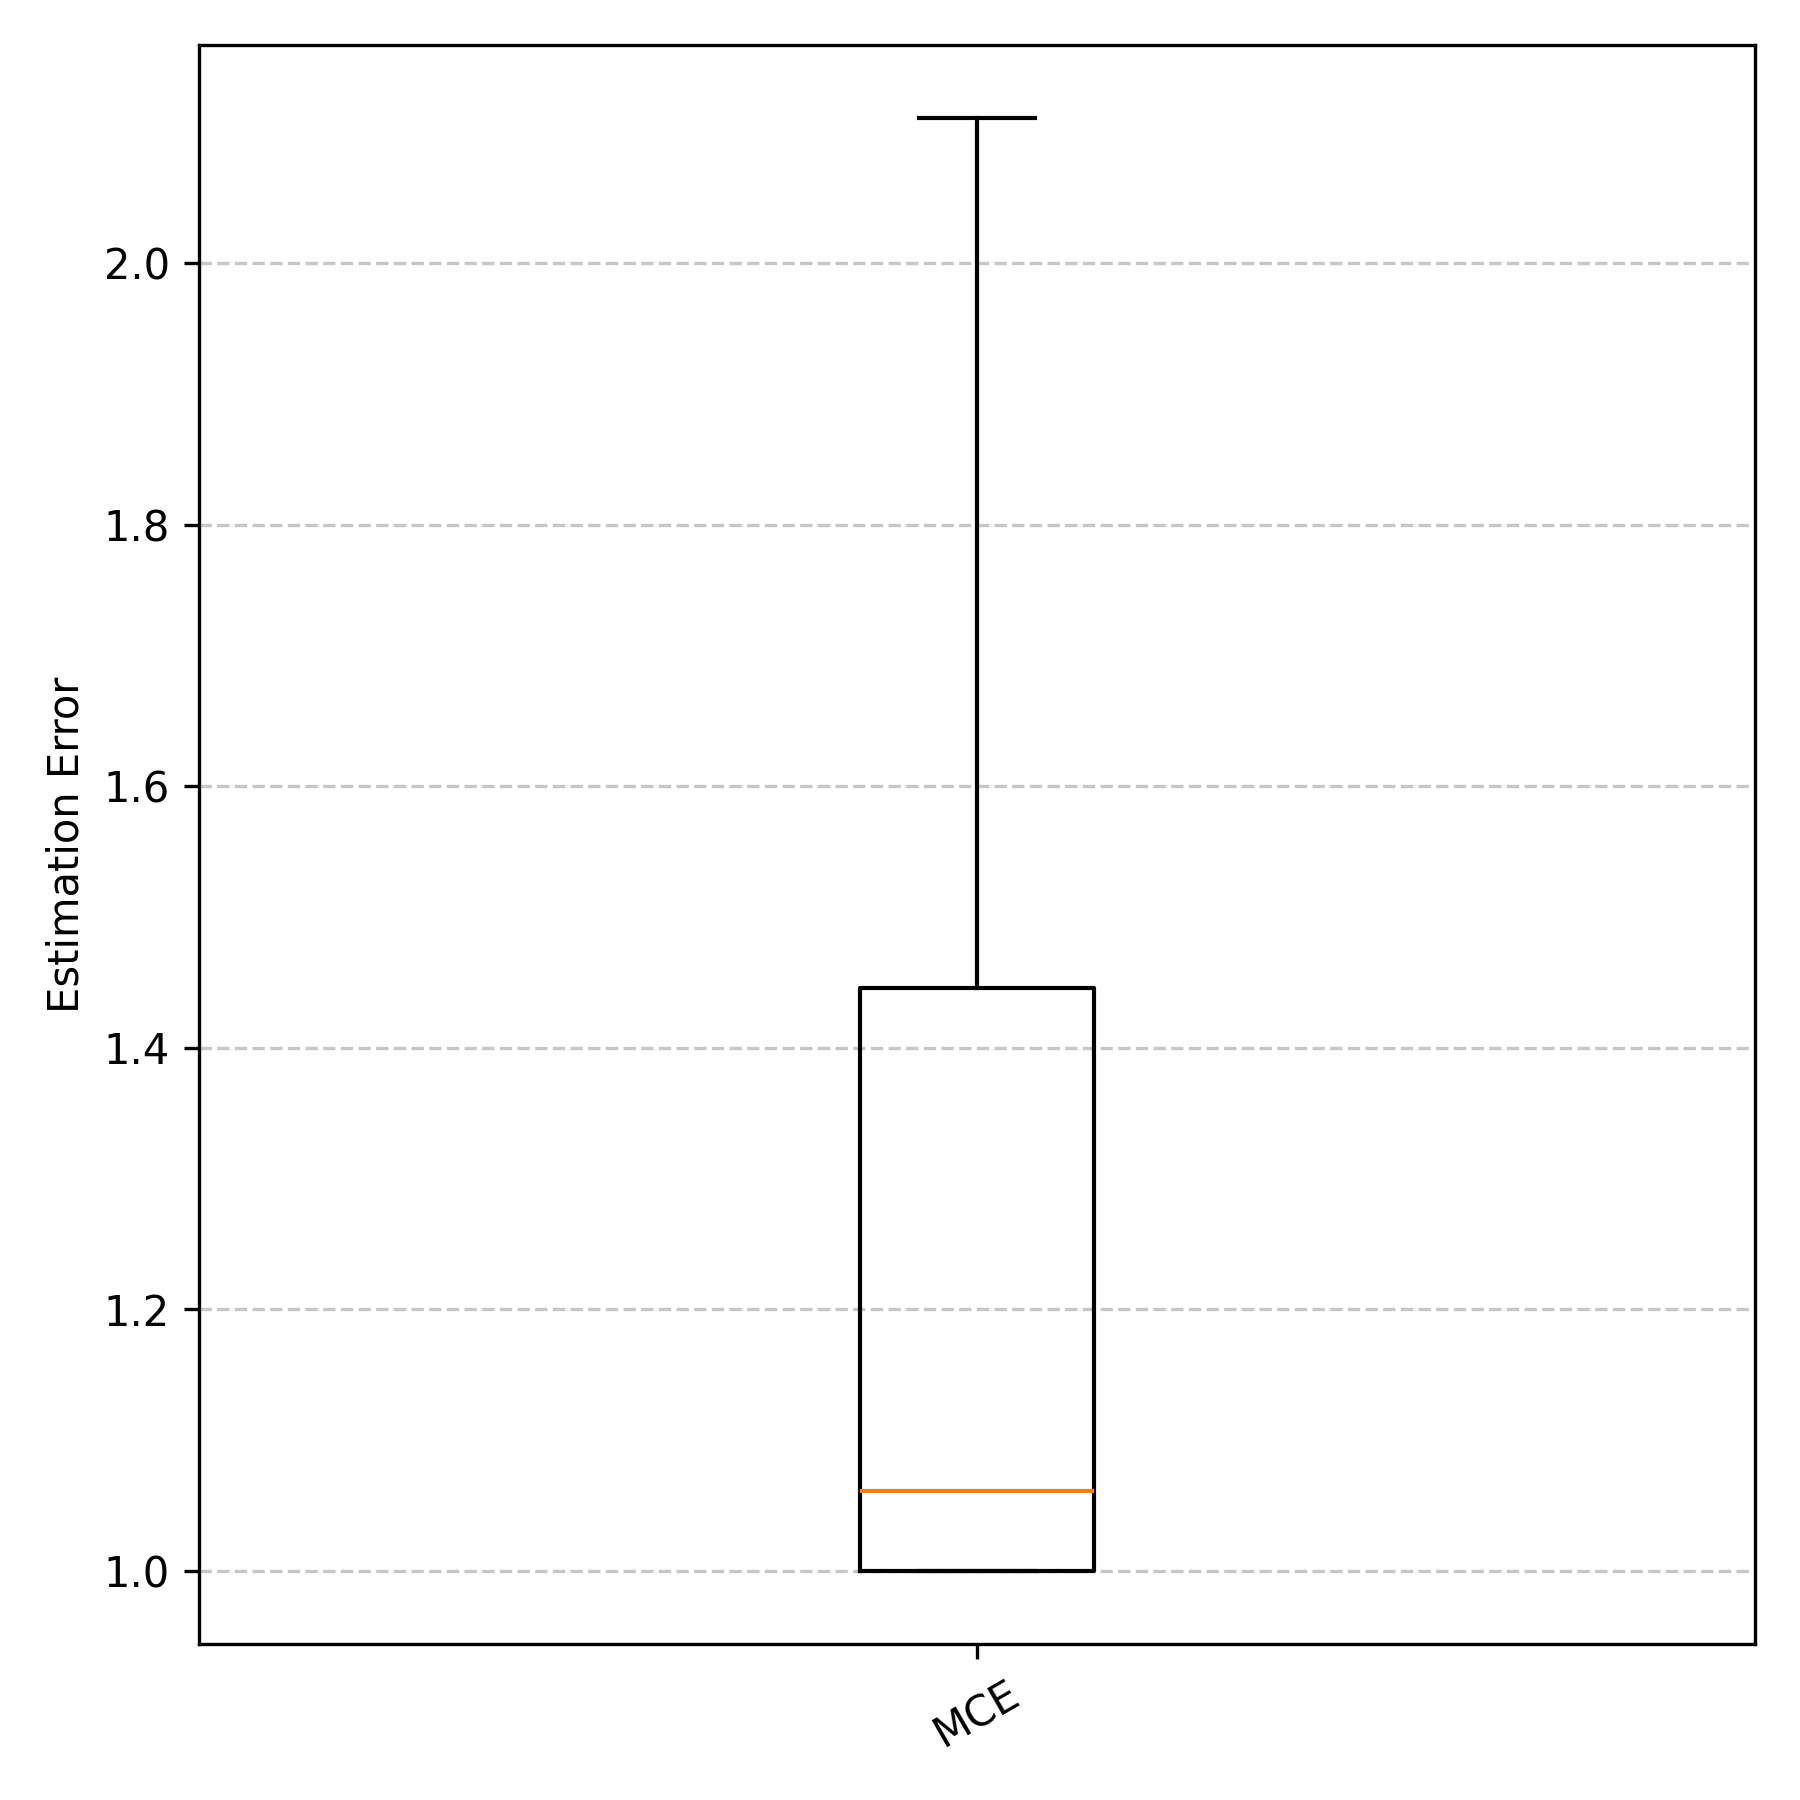
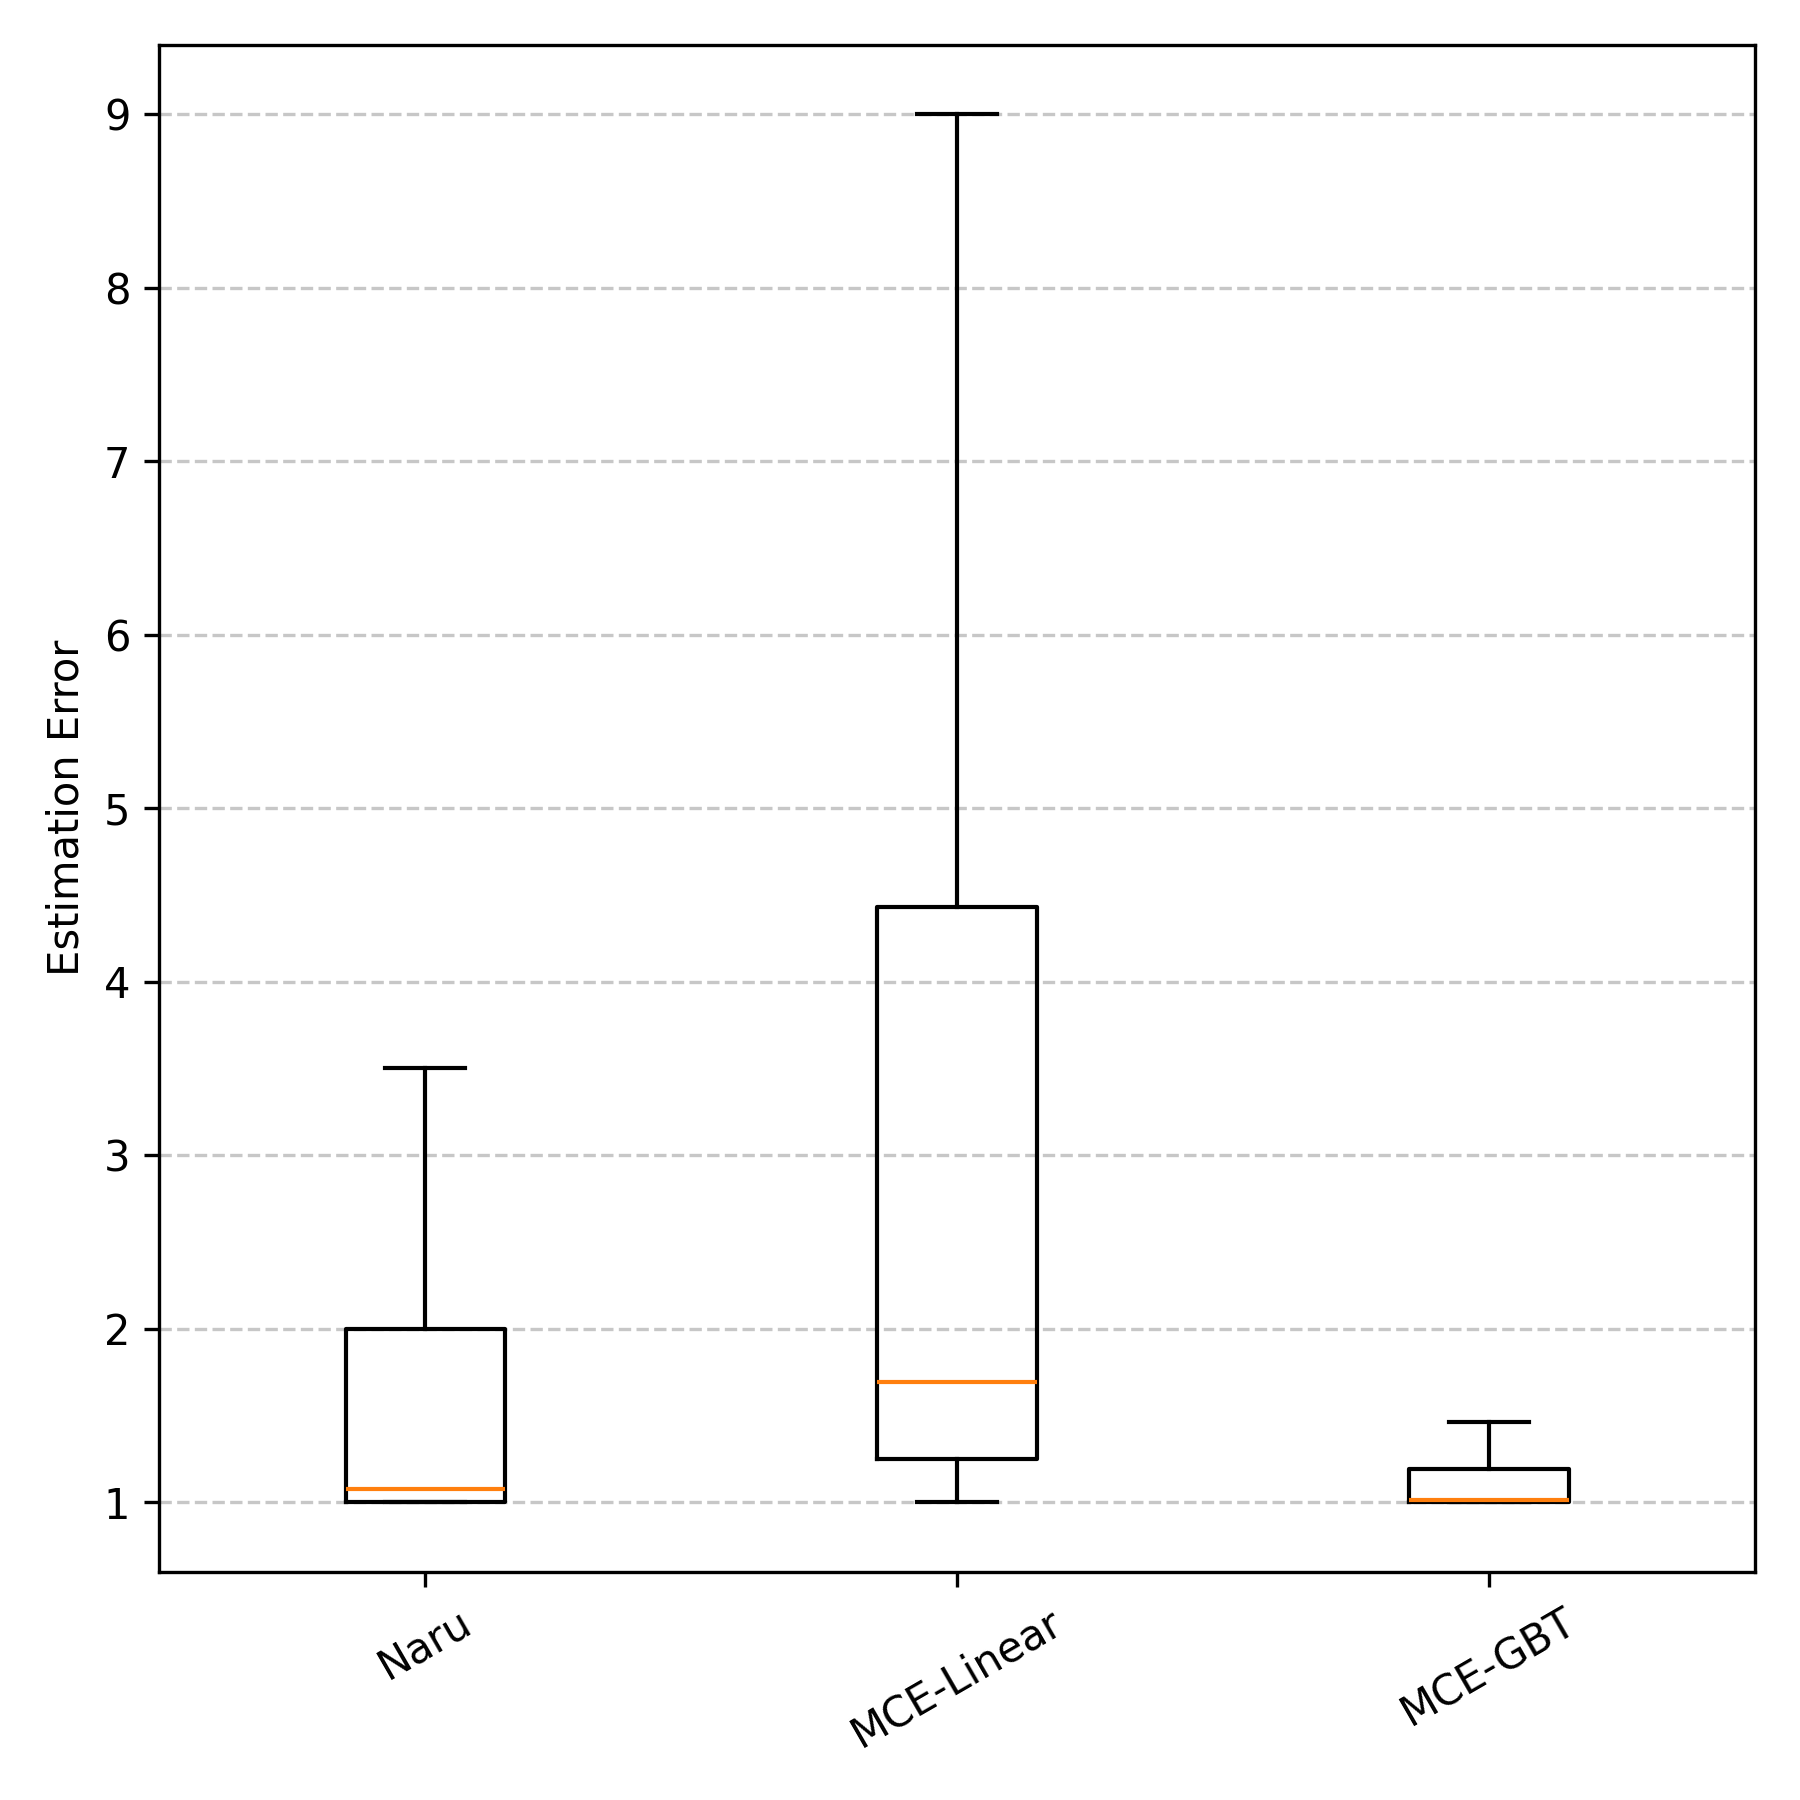
dmv-tiny results

diff --git a/mce_comp.py b/mce_comp.py
@@ -242,6 +242,24 @@ def get_train_valid_data(rng, table, table_name, oracle_est, max_rows, seed, num
 
     return train, valid
 
+def gen_card_model(linear, retrain_model, table, table_name, rows, seed, rng, test_data):
+    path = f'models/mce_{table_name}_rows={rows}_seed={seed}_linear={linear}'
+    path += '.pkl' if linear else '.txt'
+    if not retrain_model and os.path.exists(path):
+        spec_est = MCE_Estimator(table, rng, linear=linear)
+        spec_est.load_model(path)
+        print(f"Loaded model from: {path}")
+    else:
+        test_q, test_c = test_data
+        spec_est = train_mce(rng, test_q, test_c, table, path=path, linear=linear)
+
+    if linear:
+        spec_est.name = "MCE-Linear"
+    else:
+        spec_est.name = "MCE-GBT"
+
+    return spec_est
+
 def main():
     DEVICE = 'cuda' if torch.cuda.is_available() else 'cpu'
 
@@ -254,57 +272,66 @@ def main():
     num_train = 10000
     num_valid = 1000
 
-    max_rows = 100000
+    target_algs = ["naru", "gbt", "linear"]
+    test_ests = []
+    get_naru = "naru" in target_algs
+
+    max_rows = None
     table_name = 'dmv-tiny'
     target_ckpt = glob.glob('./models/dmv-tiny*.pt')[0]
-    table, oracle_est, naru_est = setup_data_model_eval(rng, table_name, target_ckpt, DEVICE, max_rows=max_rows, get_naru=False)
+    table, oracle_est, naru_est = setup_data_model_eval(rng, table_name, target_ckpt, DEVICE, max_rows=max_rows, get_naru=get_naru)
     rows = min(table.cardinality, max_rows) if max_rows is not None else table.cardinality
 
-    linear = False
+    if get_naru:
+        test_ests.append(naru_est)
+
     test_data, valid_data = get_train_valid_data(rng, table, table_name, oracle_est, rows, seed, num_train, num_valid, recollect_data=recollect_data)
-    path = f'models/mce_{table_name}_rows={rows}_seed={seed}_linear={linear}'
-    path += '.pkl' if linear else '.txt'
-    if not retrain_model and os.path.exists(path):
-        spec_est = MCE_Estimator(table, rng, linear=linear)
-        spec_est.load_model(path)
-        print(f"Loaded model from: {path}")
-    else:
-        test_q, test_c = test_data
-        spec_est = train_mce(rng, test_q, test_c, table, path=path, linear=linear)
-    spec_est.name = f"MCE"
+    
+    if "linear" in target_algs:
+        lin_est = gen_card_model(True, retrain_model, table, table_name, rows, seed, rng, test_data)
+        test_ests.append(lin_est)
+    if "gbt" in target_algs:
+        gbt_est = gen_card_model(False, retrain_model, table, table_name, rows, seed, rng, test_data)
+        test_ests.append(gbt_est)
 
     print("Evaluating...")
     valid_q, valid_c = valid_data
     for i in tqdm(range(num_valid)):
         query, true_card = valid_q[i], valid_c[i]
-        execute_on_est(spec_est, true_card, query, table, None)
+        for est in test_ests:
+            execute_on_est(est, true_card, query, table, None)
     
-    print("Example encoding:")
-    ex_idx = 0
-    cols, ops, vals = valid_q[ex_idx]
-    true_card = valid_c[ex_idx]
-    print("    Query:")
-    for c,op,v in zip(cols, ops, vals):
-        print(f"     {c.name} {str(op)} {v}")
+    if "gbt" in target_algs:
+        spec_est = test_ests[target_algs.index("gbt")]
+        print("Example encoding:")
+        ex_idx = 0
+        cols, ops, vals = valid_q[ex_idx]
+        true_card = valid_c[ex_idx]
+        print("    Query:")
+        for c,op,v in zip(cols, ops, vals):
+            print(f"     {c.name} {str(op)} {v}")
 
-    ex_vec = spec_est._query_to_vec(cols, ops, vals,)
-    print(f"    Encoding: {ex_vec}")
-    inv_cols, inv_ops, inv_vals = spec_est._vec_to_query(ex_vec)
-    print("    Inverse: ")
-    for c,op,v in zip(inv_cols, inv_ops, inv_vals):
-        print(f"     {c.name} {str(op)} {v}")
-        
-    print(f"    Cardinality: {true_card}")
-    print(f"    Prediction: {spec_est.Query(cols, ops, vals, store=False)}")
+        ex_vec = spec_est._query_to_vec(cols, ops, vals,)
+        print(f"    Encoding: {ex_vec}")
+        inv_cols, inv_ops, inv_vals = spec_est._vec_to_query(ex_vec)
+        print("    Inverse: ")
+        for c,op,v in zip(inv_cols, inv_ops, inv_vals):
+            print(f"     {c.name} {str(op)} {v}")
+            
+        print(f"    Cardinality: {true_card}")
+        print(f"    Prediction: {spec_est.Query(cols, ops, vals, store=False)}")
 
-    print_est(spec_est, attribute='errs')
-    print_est(spec_est, attribute='query_dur_ms')
+    for est in test_ests:  
+        print(f"---{est.name}---")
+        print_est(est, attribute='errs')
+        print_est(est, attribute='query_dur_ms')
+        print()
 
-    # colors = ['#C877E3', '#7796E3', '#B8EB9D']
-    plot_estimators_boxplots([spec_est], filename="fig_err.png", target_stat='errs', label='Estimation Error', title="")
-    plot_estimators_boxplots([spec_est], filename="fig_query_dur.png", target_stat='query_dur_ms', label='Execution Duration (ms)', title="")
+    colors = ['#C877E3', '#7796E3', '#B8EB9D']
+    plot_estimators_boxplots(test_ests, filename="fig_err.png", target_stat='errs', label='Estimation Error', title="")
+    plot_estimators_boxplots(test_ests, filename="fig_query_dur.png", target_stat='query_dur_ms', label='Execution Duration (ms)', title="")
 
-    SaveEstimators("results_spec.csv", [spec_est])
+    # SaveEstimators("results_spec.csv", [spec_est])
     print('...Done')
 
 if __name__ == "__main__":

diff --git a/mce_estimator.py b/mce_estimator.py
@@ -106,7 +106,7 @@ class MCE_Estimator(CardEst):
 
             # Define hyperparameter grid for Lasso
             param_grid = {
-                'alpha': [1e-4, 1e-3, 1e-2, 1e-1, 1, 10]
+                'alpha': [1e-4, 1e-3, 1e-2, 1e-1, 1]
             }
 
             grid_search = GridSearchCV(
@@ -121,9 +121,9 @@ class MCE_Estimator(CardEst):
 
             # Define the hyperparameter grid
             param_grid = {
-                'num_leaves': [31,50],
+                'num_leaves': [30,50,100],
                 'learning_rate': [0.01, 0.1],
-                'max_depth': [4,6]
+                'max_depth': [4,6, None]
             }
             
             # param_grid = {
